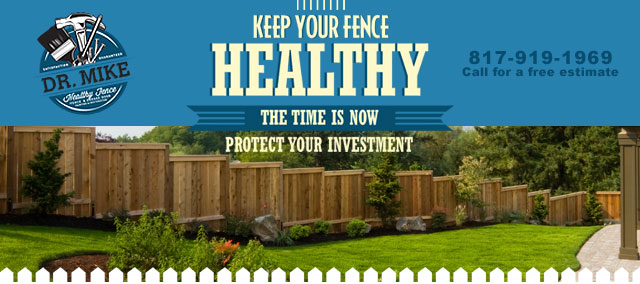
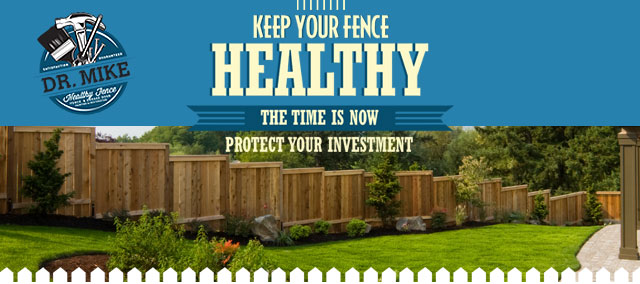
added phone links to header and footer

Changed region(s): [[0.7188, 0.169, 0.9688, 0.2817]]

diff --git a/index.html b/index.html
@@ -13,12 +13,15 @@
 			<div class="logo-wrapper mobile-hide">
 				<div class="logo-ph">
 					<img src="img/logo.png">
-					<p  class="logo-phone">817-919-1969</p>
+					<p class="logo-phone">817-919-1969</p>
 					<p class="logo-callout">Call for a free estimate</p>
 				</div>
 			</div>
 			<div class="header-statement mobile-hide">
 				<img src="img/top-headline-graphic.png">
+			</div>
+			<div class="header-contact mobile-show">
+				<a href="tel:817-919-9169" class="header-contact">817-919-9169</a><br><br><span>Call for a free estimate</span>
 			</div>
 		</div><!--End Header-->
 
@@ -79,7 +82,10 @@
 			<div class="email-wrapper">
 				<a href="mailto:dr.mike@healthyfence.com">Dr.Mike@HealthyFence.com</a>
 			</div>
-			<img src="img/footer-img.jpg">
+			<img src="img/footer-img-1.jpg">
+			<div class="footer-contact">
+				<a href="tel:817-919-1969">817-919-1969</a>
+			</div>
 		</div><!--End Footer-->
 	</div><!--End Container-->
 </body>

diff --git a/css/responsive.css b/css/responsive.css
@@ -14,6 +14,25 @@
 		background: url('../img/hero-mobile.jpg') no-repeat;
 		background-size: cover;
 	}
+	.header-contact{
+		font-size: 9px;
+		color: #084d70;
+		position: absolute;
+		right: 0;
+		text-align: center;
+		font-family: arial;
+		width: 110px;
+		font-weight: bold;
+		top: 14px;
+	}
+	.header-contact span{
+		font-size: 8px;
+		padding-top: 5px;
+	}
+	.header-contact a{
+		line-height: 3px;
+	}
+
 	.statement{
 		font-size: 12px;
 		width: 240px;
@@ -76,5 +95,12 @@
 	}
 	.footer{
 		bottom: -10px;
+	}
+	.footer-contact{
+		font-size: 17px;
+		position: absolute;
+		bottom: 25px;
+		left: 100px;
+		letter-spacing: 2px;
 	}
 }

diff --git a/css/style.css b/css/style.css
@@ -171,8 +171,18 @@ h4{
 }
 .footer{
 	position: relative;
-	
 }
 .footer img{
 		max-width: 100%;
-	}
+}
+.footer-contact{
+	font-size: 72px;
+	font-family: 'rockwell' arial;
+	position: absolute;
+	bottom: 80px;
+	left: 330px;
+}
+.footer-contact a{
+	color: white;	
+	text-decoration: none;
+}
